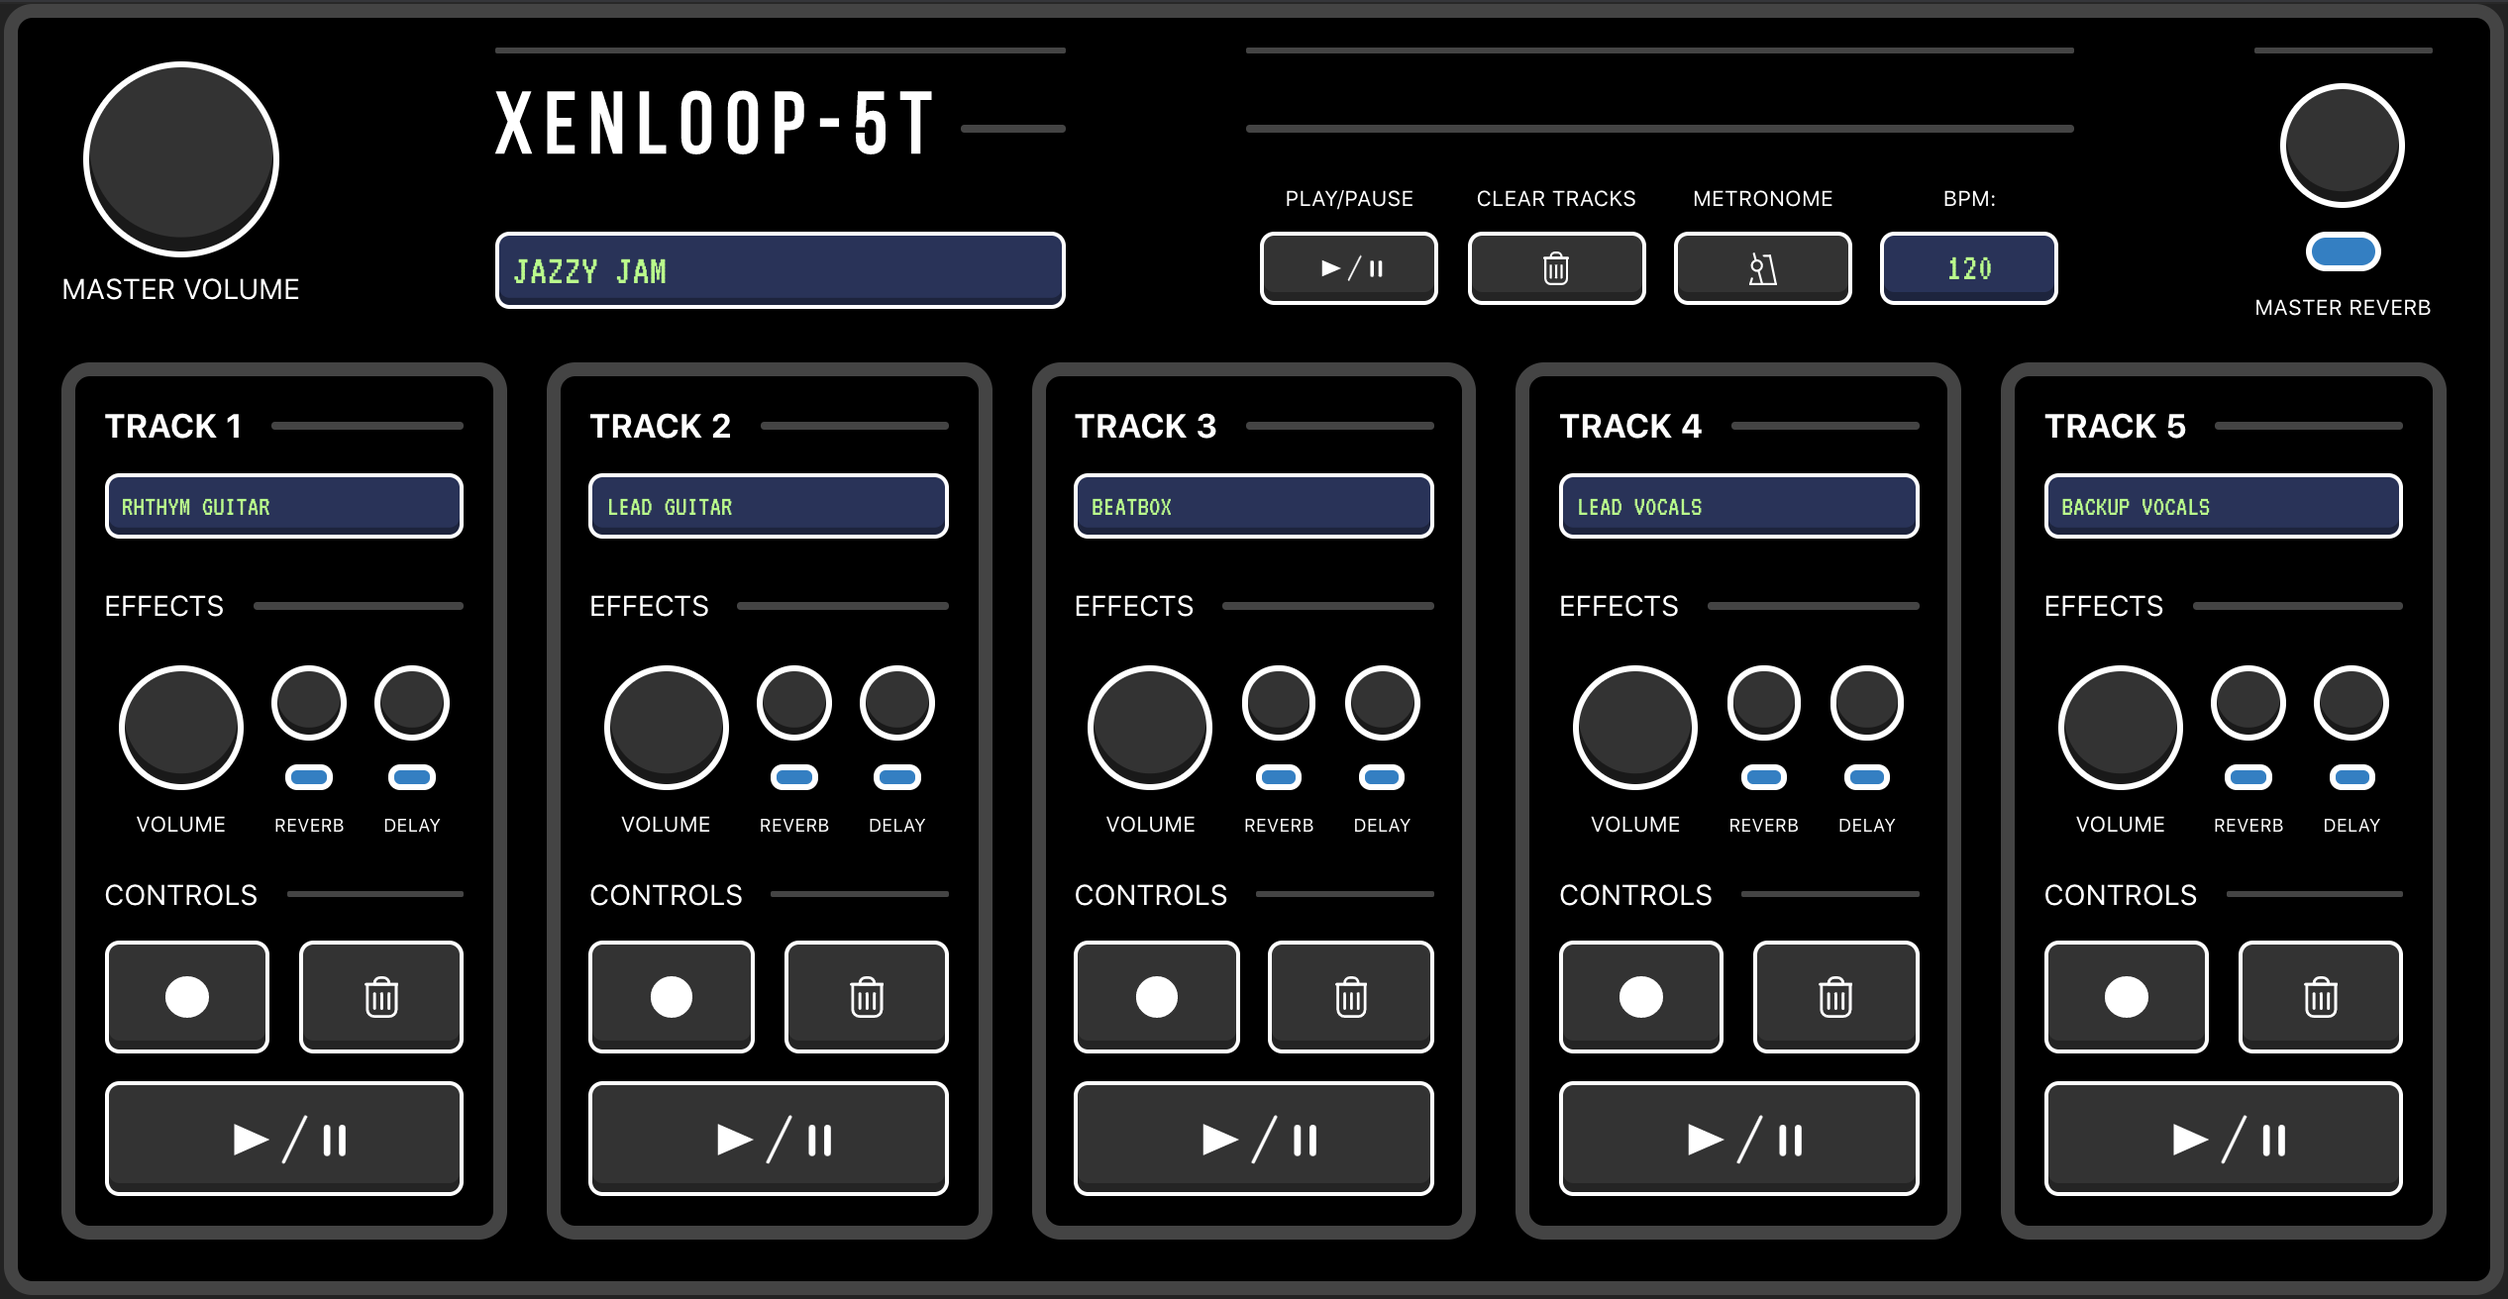
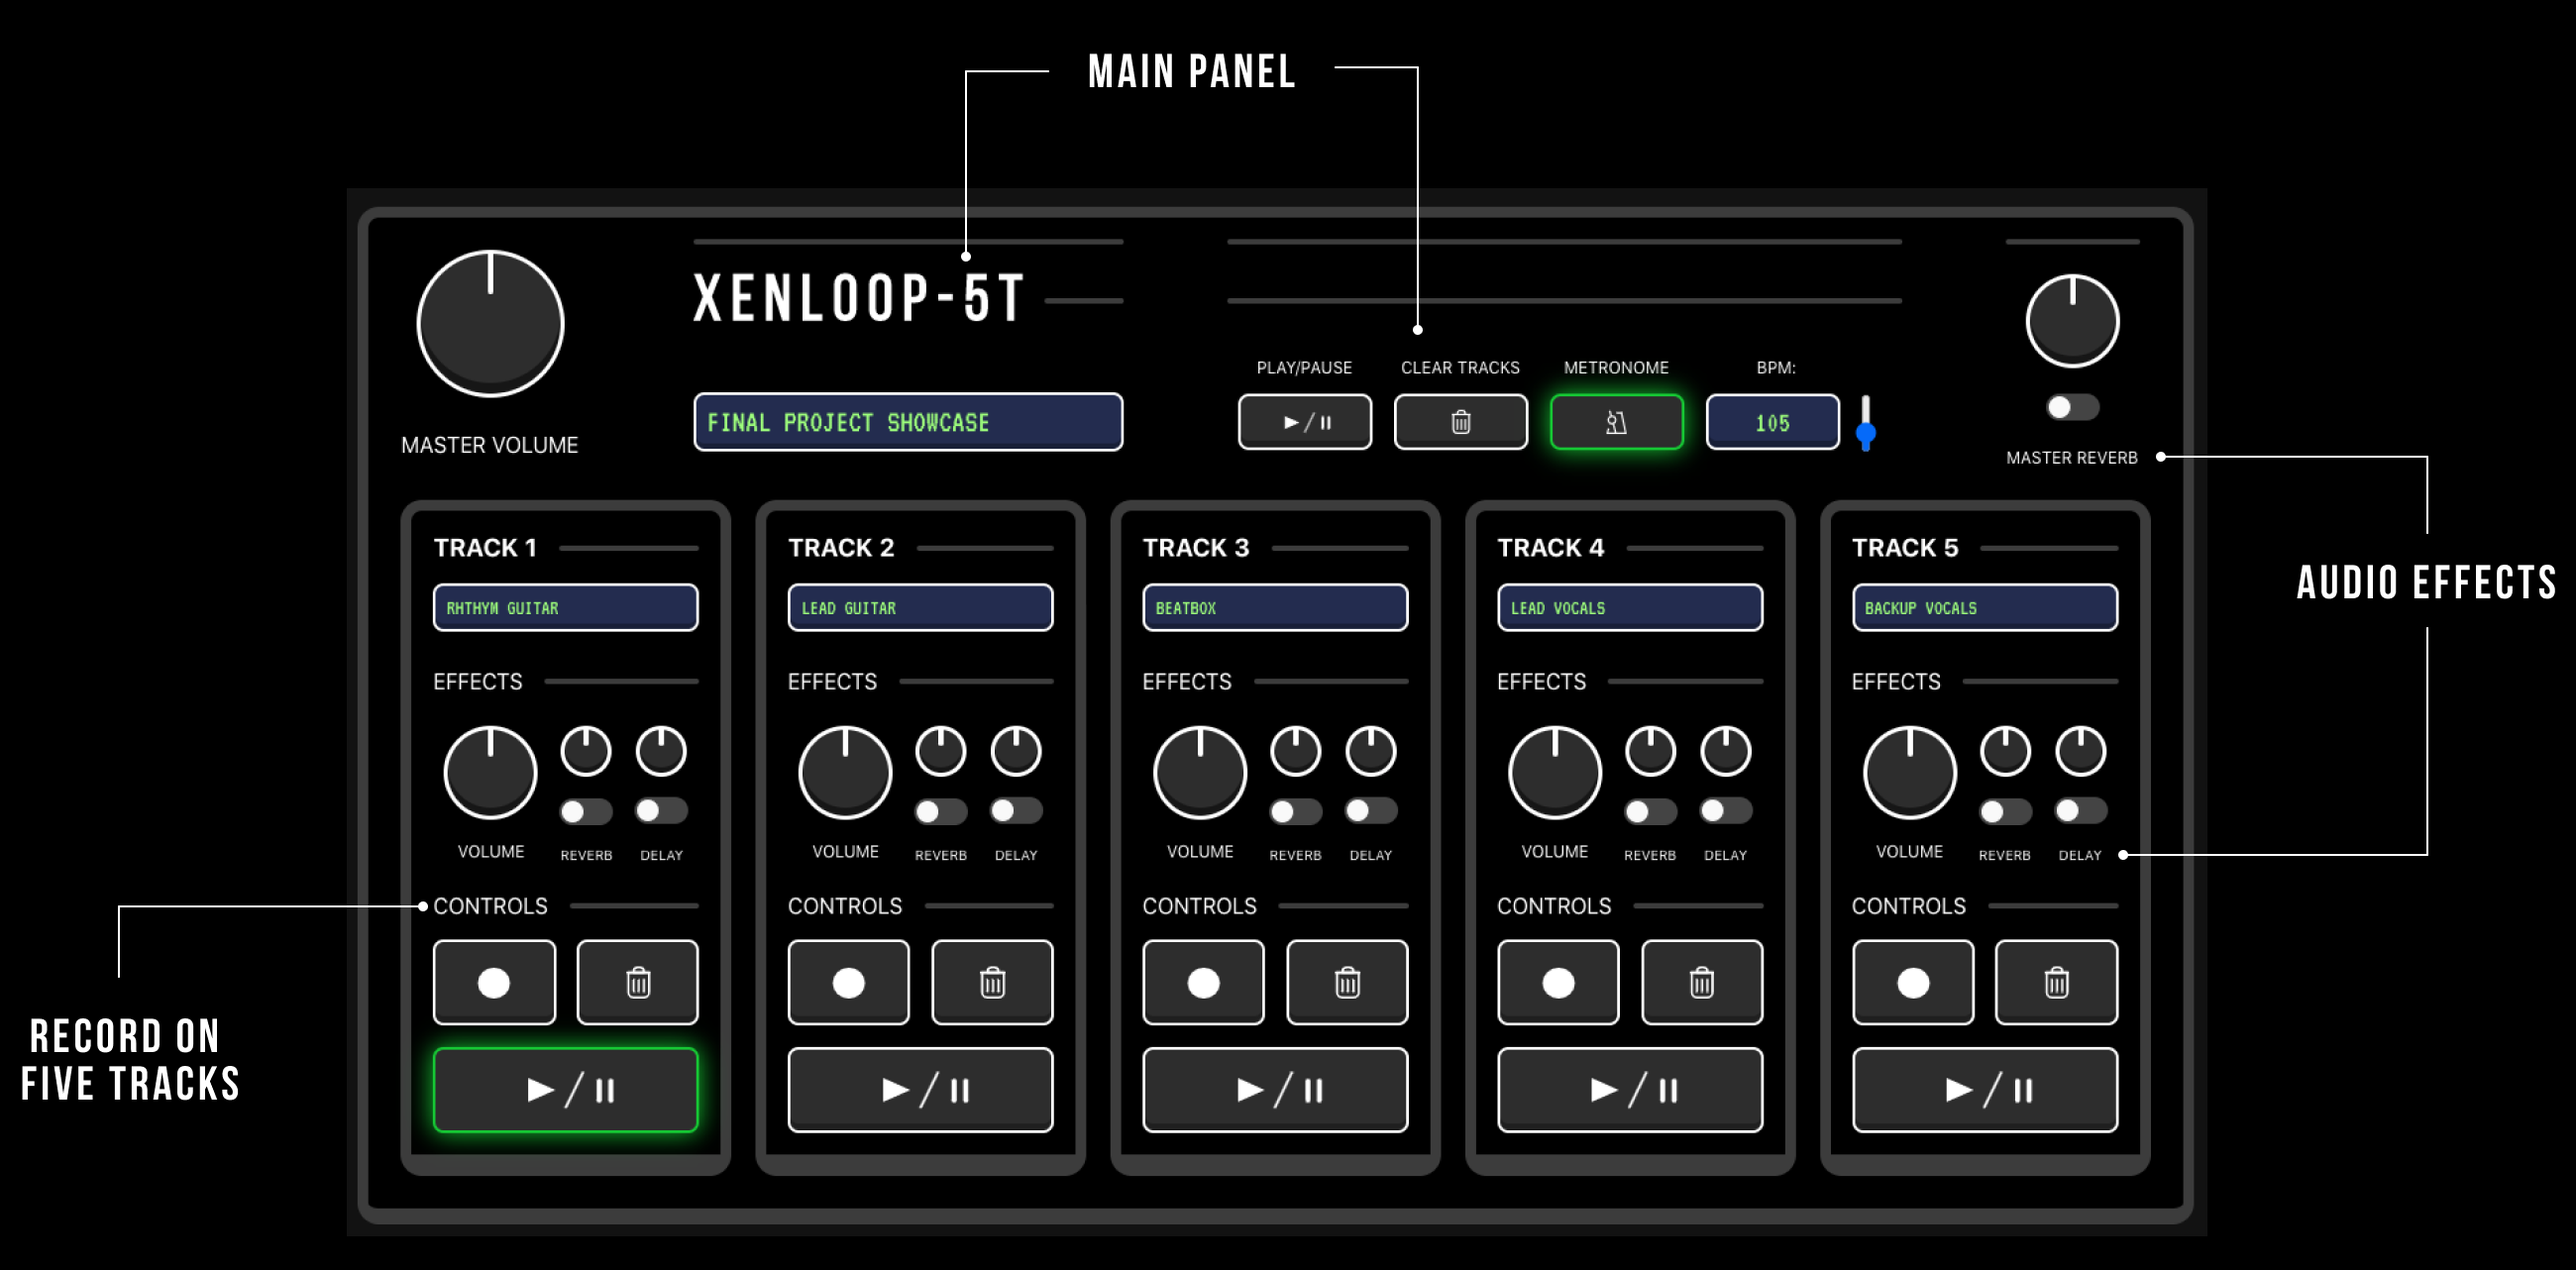
finished about page

diff --git a/frontend/src/components/trackPanel.js b/frontend/src/components/trackPanel.js
@@ -9,7 +9,7 @@ export function TrackPanel(props) {
     let [ trackAudio , updateAudio ] = useState(new Audio)
     let [ trackVolume , adjustVolume ] = useState(0.5)
     let [ recBtnColor, recBtnChange ] = useState("medium-btn")
-    let [ playStatus, setPlayStatus ] = useState(true)
+    let [ playStatus, setPlayStatus ] = useState(false)
     let [ playBtnColor, playBtnChange ] = useState("large-btn")
     let [ reverbStatus, setReverbStatus ] = useState(false)
     let [ audioCtx, setAudioCtx] = useState(props.audioCtx)
@@ -17,23 +17,40 @@ export function TrackPanel(props) {
     let [ convolver, setConvolver ] = useState(audioCtx.createConvolver())
     let [ delay, setDelay ] = useState(audioCtx.createDelay(5.0))
     let [ delayStatus, setDelayStatus ] = useState(false)
-
-    console.log(trackAudio)
+    let [ trackGain, setGain ] = useState(audioCtx.createGain())
 
     let toggleReverb = async () => {
         console.log("Reverb toggled")
-        if (reverbStatus === false) {
-            // trackAudio.disconnect(audioCtx)
-            setReverbStatus(true)
-            let arrayBuffer = base64ToArrayBuffer(impulseResponse);
-            let audioBuffer = await audioCtx.decodeAudioData(arrayBuffer)
-            trackAudio.connect(convolver)
-            convolver.connect(audioCtx.destination)
-            convolver.buffer = audioBuffer
-        } else if (reverbStatus === true) {
-            setReverbStatus(false)
-            convolver.disconnect(audioCtx.destination)
+        if (playStatus === false) {
+            if (reverbStatus === false) {
+                setReverbStatus(true)
+                let arrayBuffer = base64ToArrayBuffer(impulseResponse);
+                let audioBuffer = await audioCtx.decodeAudioData(arrayBuffer)
+                convolver.buffer = audioBuffer
+            } else if (reverbStatus === true) {
+                setReverbStatus(false)
+            }
         }
+
+        if (playStatus === true) {
+            if (reverbStatus === false) {
+                setReverbStatus(true)
+                let arrayBuffer = base64ToArrayBuffer(impulseResponse);
+                let audioBuffer = await audioCtx.decodeAudioData(arrayBuffer)
+                convolver.buffer = audioBuffer
+                trackAudio.disconnect(trackGain)
+                trackAudio.connect(convolver)
+                convolver.connect(trackGain)
+                trackGain.connect(audioCtx.destination)
+            } else if (reverbStatus === true) {
+                setReverbStatus(false)
+                trackAudio.disconnect(convolver)
+                convolver.disconnect(trackGain)
+                trackAudio.connect(trackGain)
+                trackGain.connect(audioCtx.destination)
+            }
+        } 
+
     }
 
     let toggleDelay = async () => {
@@ -115,43 +132,54 @@ export function TrackPanel(props) {
     }, [])
 
     let play = () => {
+        trackAudio.loop = true
         if (trackStatus === "inactive") {
             console.log("no audio recorded")
-            playBtnChange("large-btn")
         } 
         
         if (trackStatus === "active") {
-            console.log("Playing Audio")
-            playBtnChange("large-btn-green")
-            trackAudio.connect(audioCtx.destination)
-
+            setPlayStatus()
             if (reverbStatus === true) {
-                convolver.connect(audioCtx.destination)
-            } 
-
-            // if (delayStatus === true) {
-            //     convolver.connect(audioCtx.destination)
-            // }
+                console.log("Playing Audio")
+                playBtnChange("large-btn-green")
+                trackAudio.connect(convolver)
+                convolver.connect(trackGain)
+                trackGain.connect(audioCtx.destination)
+            } else {
+                console.log("Playing Audio")
+                playBtnChange("large-btn-green")
+                trackAudio.connect(trackGain)
+                trackGain.connect(audioCtx.destination)
+            }
         }  
+    }
+
+    let decreaseVolume = () => {
+        trackGain.gain.value = trackGain.gain.value - 0.1
+        console.log(trackGain.gain.value)
     }
 
     let pause = () => {
         playBtnChange("large-btn")
-        if (reverbStatus === true) {
-            trackAudio.disconnect(audioCtx.destination)
-            convolver.disconnect(audioCtx.destination)
-        } else if (reverbStatus === false) {
-            trackAudio.disconnect(audioCtx.destination)
-        }
+        trackAudio.loop = false
+        // if (reverbStatus === true) {
+        //     audioCtx.currentTime = 0
+        //     trackAudio.disconnect(convolver)
+        //     convolver.disconnect(trackGain)
+        //     trackGain.disconnect(audioCtx.destination)
+        // } else if (reverbStatus === false) {
+        //     trackAudio.disconnect(trackGain)
+        //     trackGain.disconnect(audioCtx.destination)
+        // }
     }
 
     let playLoop = () => {
-        if (playStatus === true) {
+        if (playStatus === false) {
                 play();
-                setPlayStatus(false)
+                setPlayStatus(true)
         } else {
             pause();
-            setPlayStatus(true)
+            setPlayStatus(false)
             console.log("Pausing Audio")
         }
     }
@@ -161,6 +189,7 @@ export function TrackPanel(props) {
         updateAudio(new Audio)
         setStatus("inactive")
         console.log("Track audio cleared")
+        playLoop()
     }
 
     return (
@@ -175,7 +204,7 @@ export function TrackPanel(props) {
                 <div className="track-section"><h4>EFFECTS</h4></div>
                 <div className="effect-knobs">
                     <div className="track-volume">
-                        <div className="medium-knob"><div className="medium-tick"></div></div>
+                        <div className="medium-knob" onMouseDown={decreaseVolume}><div className="medium-tick"></div></div>
                         <p>VOLUME</p>
                     </div>
                     <div className="track-effect">
@@ -193,10 +222,10 @@ export function TrackPanel(props) {
             <div className="controls">
                 <div className="track-section"><h4>CONTROLS</h4></div>
                 <div className="medium-btns">
-                    <div className={recBtnColor} onClick={record}><img className="record-icon" src={recordIcon}/></div>
-                    <div className="medium-btn" onClick={clearTrack}><img height="24px" src={clearIcon}/></div>
+                    <div className={recBtnColor} onMouseDown={record}><img className="record-icon" src={recordIcon}/></div>
+                    <div className="medium-btn" onMouseDown={clearTrack}><img height="24px" src={clearIcon}/></div>
                 </div>
-                <div className={playBtnColor} onClick={playLoop}><img height="28px" src={playPauseIcon}/></div>
+                <div className={playBtnColor} onMouseDown={playLoop}><img height="28px" src={playPauseIcon}/></div>
             </div>
         </div>
     )

diff --git a/frontend/src/components/xenLoop5T.js b/frontend/src/components/xenLoop5T.js
@@ -9,23 +9,23 @@ export function XenLoop5T() {
     let fakeDatabase = [
         {
             trackNum: 1,
-            trackName: "RHTHYM GUITAR"
+            trackName: "Track 1"
         },
         {
             trackNum: 2,
-            trackName: "LEAD GUITAR"
+            trackName: "Track 2"
         },
         {
             trackNum: 3,
-            trackName: "BEATBOX"
+            trackName: "Track 3"
         },
         {
             trackNum: 4,
-            trackName: "LEAD VOCALS"
+            trackName: "Track 4"
         },
         {
             trackNum: 5,
-            trackName: "BACKUP VOCALS"
+            trackName: "Track 5"
         }
     ]
 
@@ -37,8 +37,6 @@ export function XenLoop5T() {
     let [ trackThreeAudio, setTrackThree ] = useState(new Audio)
     let [ trackFourAudio, setTrackFour] = useState(new Audio)
     let [ trackFiveAudio, setTrackFive ] = useState(new Audio)
-
-    // console.log(trackOneAudio)
 
     let playAll = () => {
         if (playAllStatus === false) {
@@ -60,14 +58,14 @@ export function XenLoop5T() {
             if (trackFiveAudio.loop === true) {
                 trackFiveAudio.connect(audioCtx.destination)
             }
-        } else {
+        } else if (playAllStatus === true) {
             setPlayAll(false)
             console.log("All Tracks Stopped")
             if (trackOneAudio.loop === true) {
                 trackOneAudio.disconnect(audioCtx.destination)
             }
             if (trackTwoAudio.loop === true) {
-                trackTwoAudio.disonnect(audioCtx.destination)
+                trackTwoAudio.disconnect(audioCtx.destination)
             }
             if (trackThreeAudio.loop === true) {
                 trackThreeAudio.disconnect(audioCtx.destination)

diff --git a/frontend/src/components/mainPanel.js b/frontend/src/components/mainPanel.js
@@ -18,9 +18,9 @@ export function MainPanel(props) {
     let [ playBtnColor, playBtnChange ] = useState("small-btn")
 
     let play = () => {
+        props.playAll()
         if (playBtnColor == "small-btn") {
             playBtnChange("small-btn-green")
-            props.playAll()
         } else {
             playBtnChange("small-btn")
         }
@@ -36,7 +36,7 @@ export function MainPanel(props) {
             <div className="master-title">
                 <hr></hr>
                 <div className="xenloop-title"><h1>X E N L O O P - 5 T</h1></div>
-                <div className="project-title" contenteditable="true">FINAL PROJECT SHOWCASE</div>
+                <div className="project-title" contenteditable="true">Untitled Project</div>
             </div>
             <div className="main-controls">
                 <div className="ctrl-line-1">
@@ -48,7 +48,7 @@ export function MainPanel(props) {
                 <div className="main-btns">
                     <div className="main-control">
                         <p className="ctrl-title">PLAY/PAUSE</p>
-                        <div className={playBtnColor} onClick={play}><img height="15px" src={playPauseIcon}/></div>
+                        <div className={playBtnColor} onMouseDown={play}><img height="15px" src={playPauseIcon}/></div>
                     </div>
                     <div className="main-control">
                         <p className="ctrl-title">CLEAR TRACKS</p>

diff --git a/frontend/src/components/about.js b/frontend/src/components/about.js
@@ -22,7 +22,7 @@ export function About() {
                             Volume, and toggle Delay & Reverb effects.
                         </p>
                     </div>
-                    <div><img width="100%" src={require('../assets/track-effects.png')}/></div>
+                    <div className="about-img"><img width="100%" src={require('../assets/track-effects.png')}/></div>
                 </div>  
                 <div className="about">
                     <div><img width="100%" src={require('../assets/track-controls.png')}/></div>
@@ -31,6 +31,11 @@ export function About() {
                         <p>Record your track audio, play it back, or clear the audio if you didn't like what you laid down.</p>
                     </div>
                 </div>  
+                <div className="about-text-center">
+                        <h3>M A I N &nbsp; P A N E L</h3>
+                        <p>Record your track audio, play it back, or clear the audio if you didn't like what you laid down.</p>
+                        <div><img width="100%" src={require('../assets/main-controls.png')}/></div>
+                </div>
             </div>
         </div>
     )

diff --git a/frontend/src/App.css b/frontend/src/App.css
@@ -147,8 +147,12 @@ h3 {
 .about-container {
   width: 90%;
   margin: auto;
-  background-image: url('./assets/pedal.jpg');
-  background-color: rgba(0, 0, 0, 0.6);
+  background-color:black;
+}
+
+.about-text-center {
+  color: white;
+  text-align: center;
 }
 
 /* .about-wallpaper {
@@ -472,7 +476,7 @@ h4 {
   font-size: 16px;
   width: 200px;
   padding: 0px 16px 16px 0px;
-  width: 50%;
+  width: 65%;
   border-right: 1px solid white;
   margin-right: 32px;
 }
@@ -484,7 +488,7 @@ h4 {
   font-size: 16px;
   width: 200px;
   padding: 0px 0px 16px 40px;
-  width: 40%;
+  width: 65%;
   border-left: 1px solid white;
   margin-left: 32px;
 }
@@ -494,7 +498,7 @@ h4 {
   text-align: center;
   margin: auto;
   margin-top: 0px;
-  padding-top: 32px;
+  padding-top: 160px;
   padding-bottom: 32px;
   color: white;
 }
@@ -508,10 +512,15 @@ h4 {
   font-family: 'Bebas Neue', cursive;
 }
 
+.about-text-center h3 {
+  font-size: 48px;
+  font-family: 'Bebas Neue', cursive;
+}
+
 .hero {
   margin-left: auto;
   margin-right: auto;
-  width: 60%;
+  width: 100%;
   margin-bottom: 48px;
 }
 
